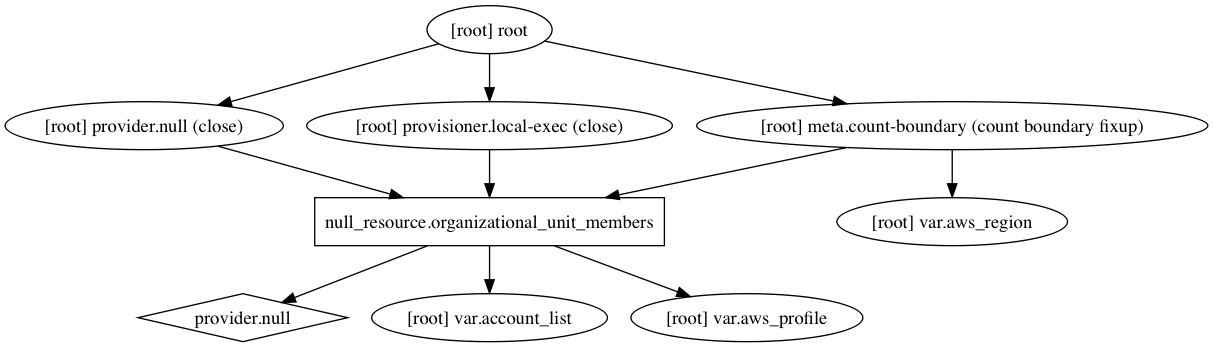
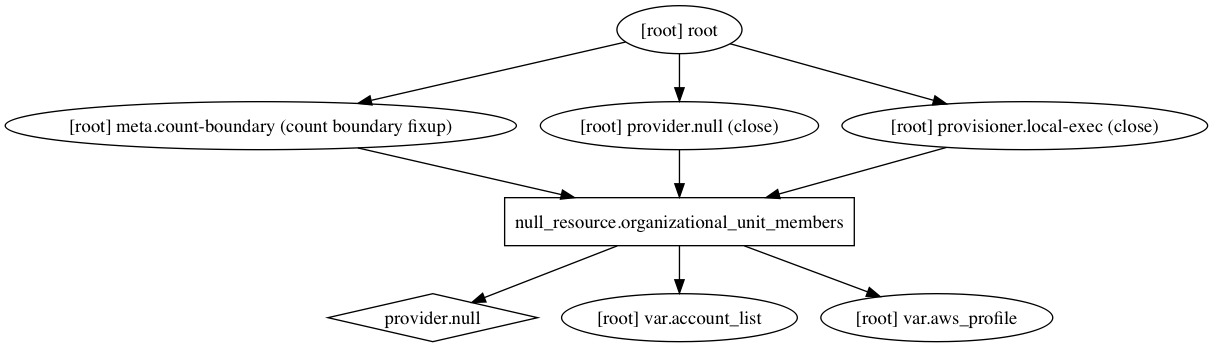
Initial release

diff --git a/README.md b/README.md
@@ -29,7 +29,6 @@ module "organizational-unit-members" {
 |------|-------------|:----:|:-----:|:-----:|
 | account\_list | List of member account and organizational units they should be into. Format: {account id}:{ou name} {account id}:{ou name} | string | - | yes |
 | aws\_profile | AWS profile in local credentials file that has rights to master account | string | - | yes |
-| aws\_region | AWS region | string | `us-east-1` | no |
 
 <!-- END OF PRE-COMMIT-TERRAFORM DOCS HOOK -->
 <!-- BEGINNING OF PRE-COMMIT-TERRAFORM GRAPH HOOK -->
